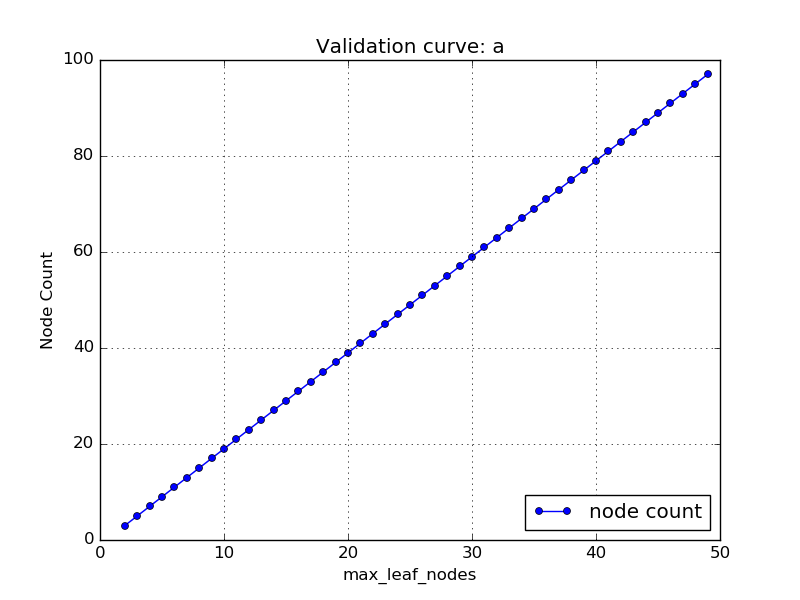
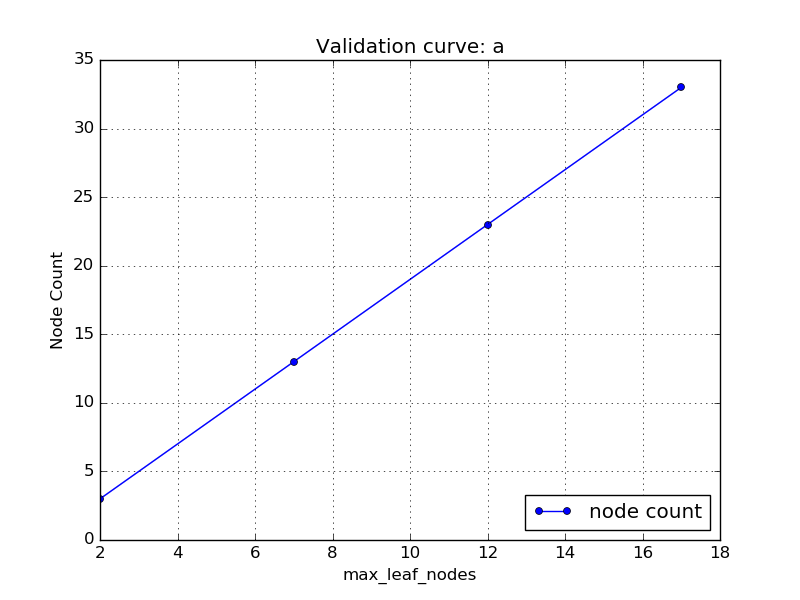
running

diff --git a/Assignment1/validation_curves.py b/Assignment1/validation_curves.py
@@ -48,11 +48,11 @@ X_train, X_test, y_train, y_test = train_test_split(x,
 
 
 params_dict = {'min_impurity_split': np.arange(0, 0.5, 0.01),
-               'max_depth': np.arange(1, 100, 1),
-               'min_samples_split': np.arange(1, 50, 1),
-               'min_samples_leaf': np.arange(2, 100, 1),
+               'max_depth': np.arange(1, 40, 1),
+               'min_samples_split': np.arange(1, 200, 5),
+               'min_samples_leaf': np.arange(2, 200, 5),
                'min_weight_fraction_leaf': np.arange(0.0, 0.5, 0.05),
-               'max_leaf_nodes': np.arange(2, 50, 1)}
+               'max_leaf_nodes': np.arange(2, 20, 5)}
 #params_dict = {'min_impurity_split': np.arange(0, 0.5, 0.01)}
 
 #param_name = 'max_depth'
